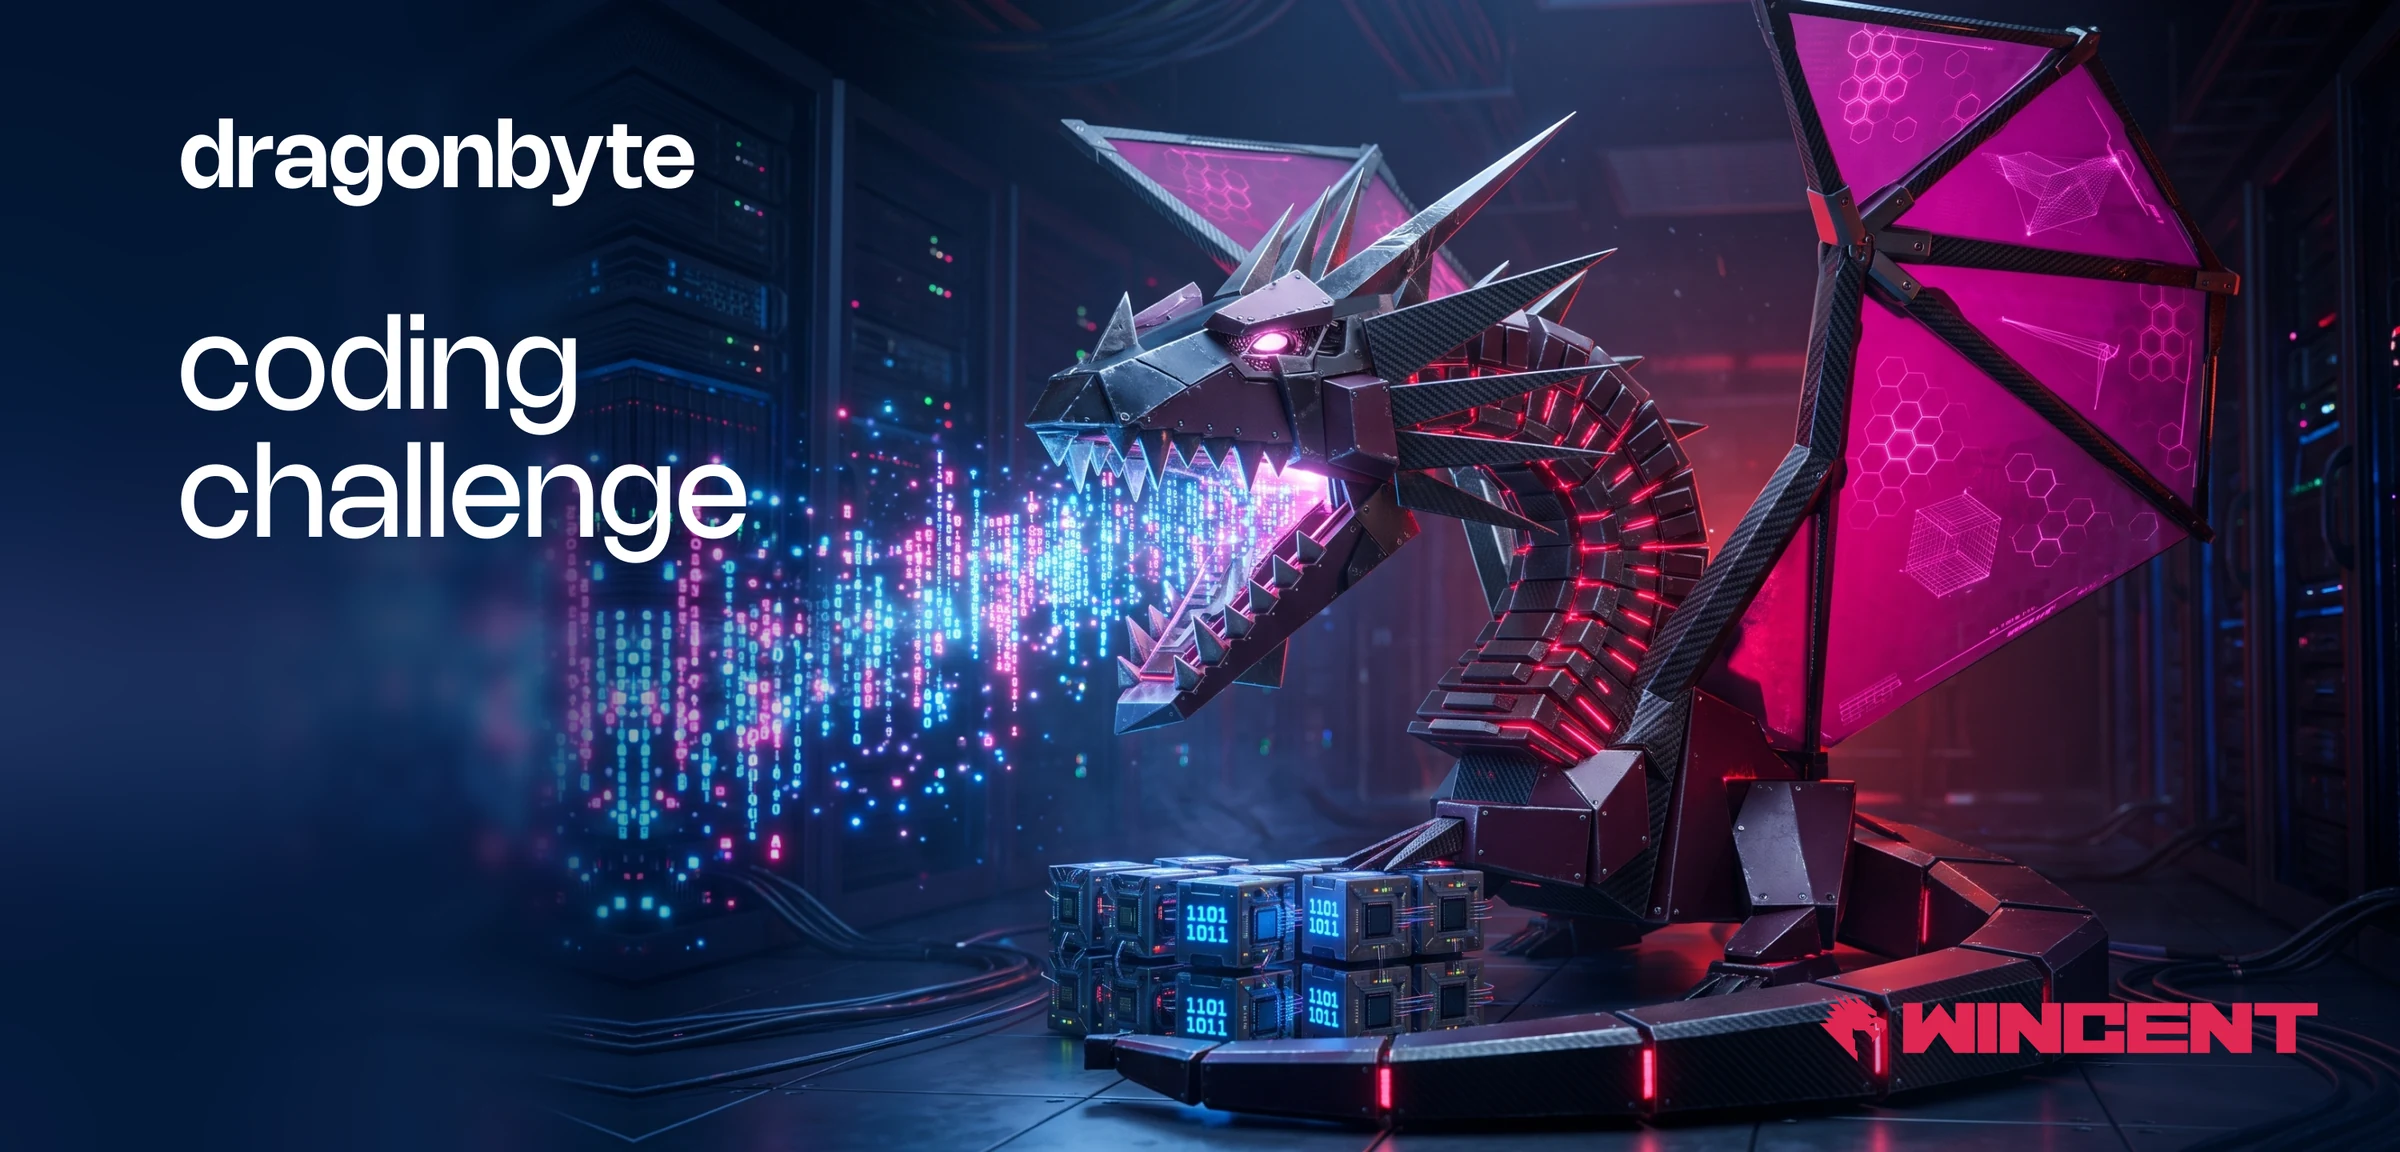
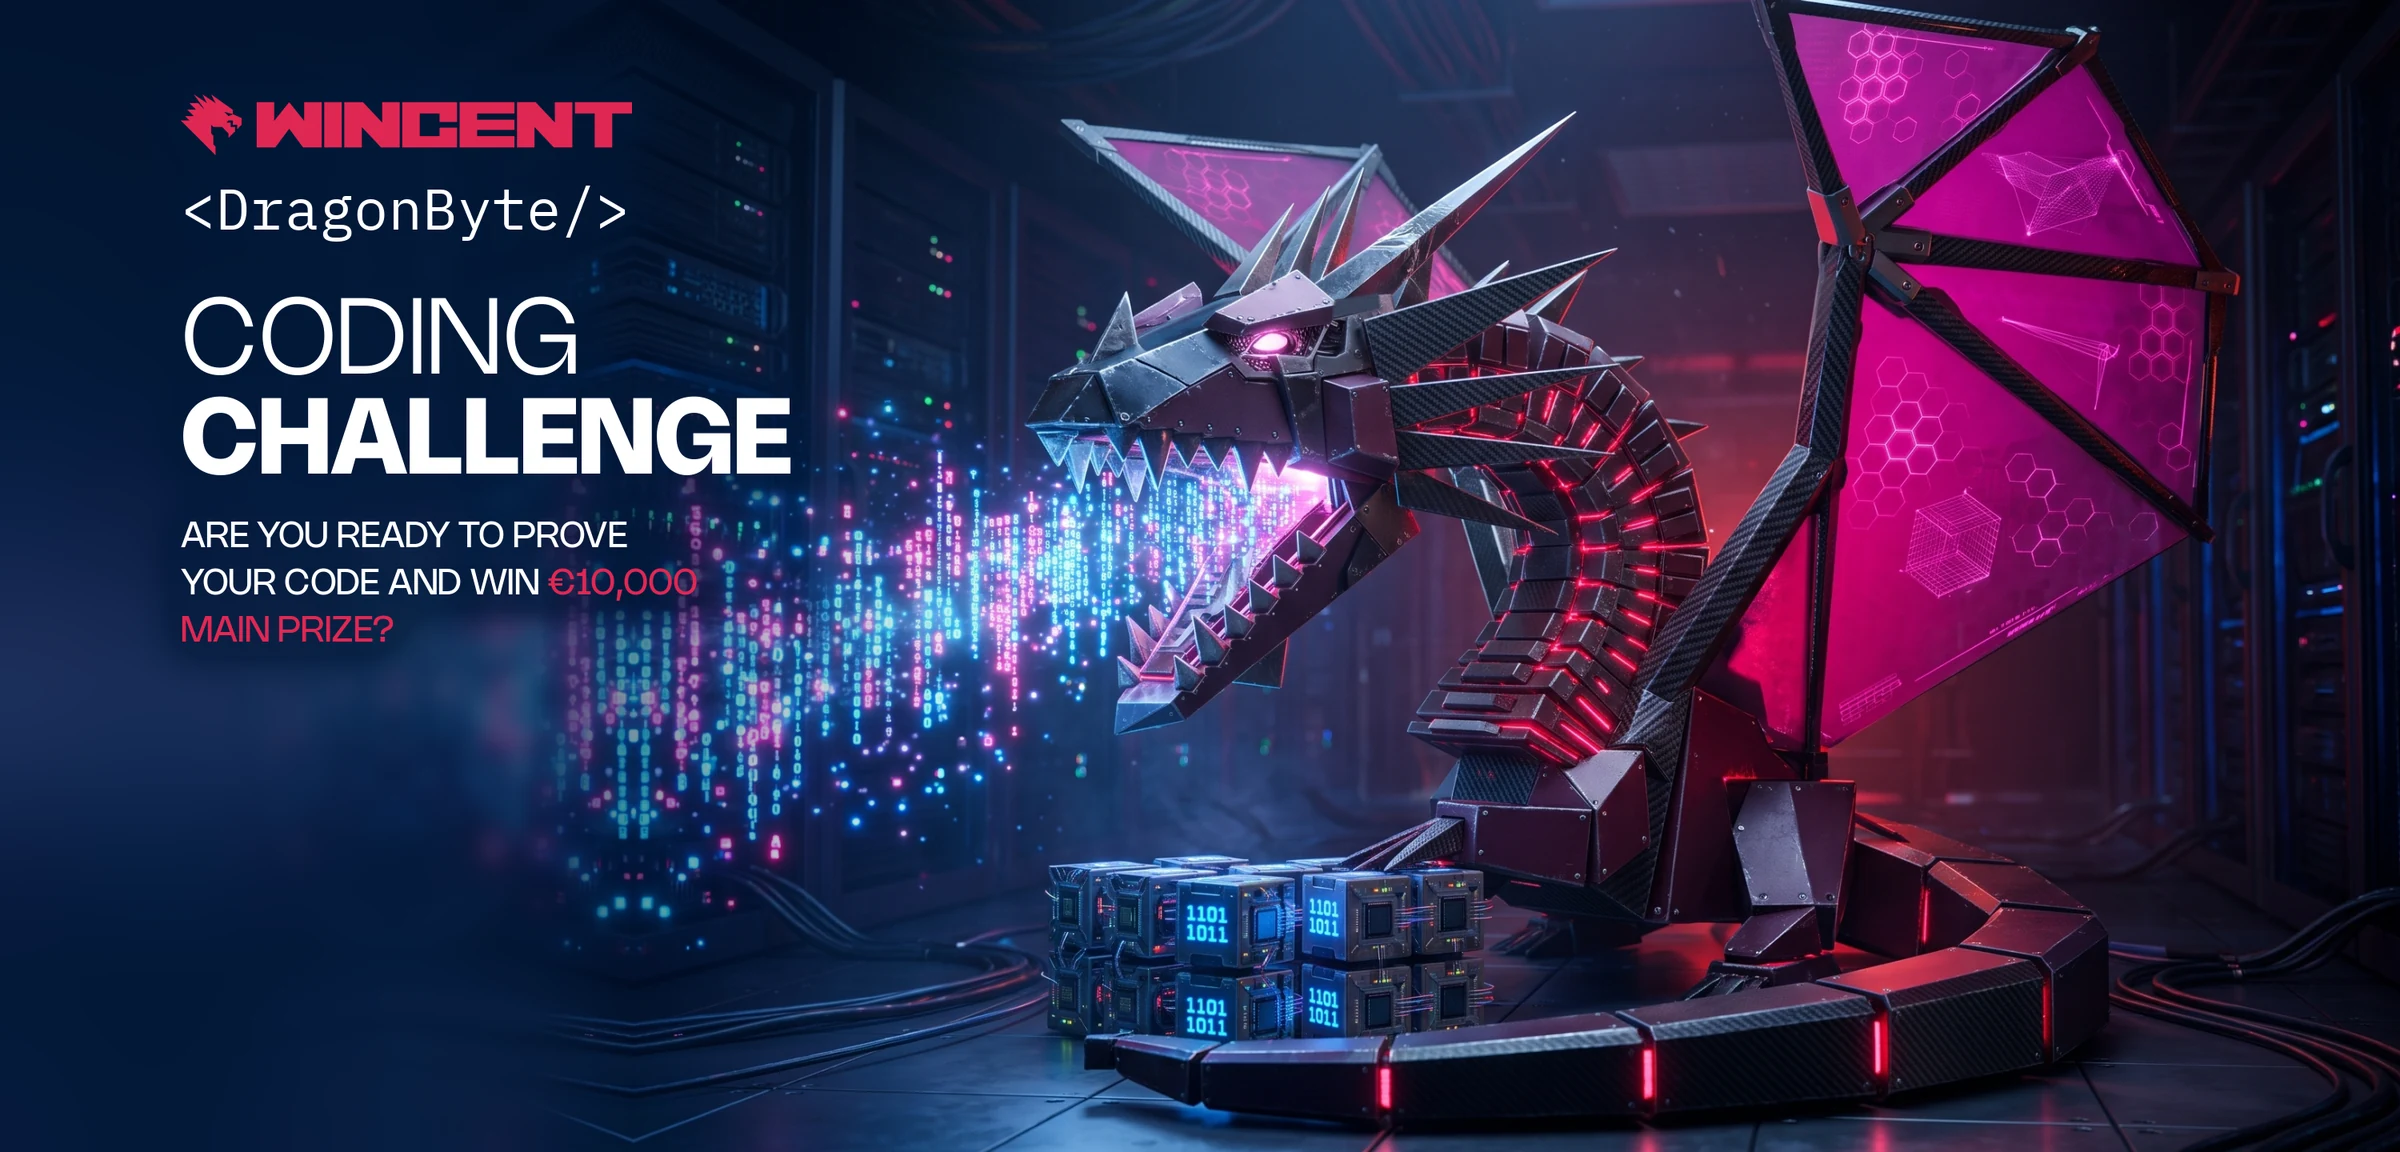
wincentdragonbyte: úloha 1 – bannery s logom Wincent, <DragonByte/> a celým textom headera v systéme trička (EN + SK)
Claude-Session: https://claude.ai/code/session_01H8JWfyXzGm1E99R4ciV8hV

diff --git a/wincentdragonbyte/index.html b/wincentdragonbyte/index.html
@@ -400,11 +400,11 @@ footer{border-top:1px solid var(--line);padding:28px 0 44px;font-size:14px;line-
 </div>
 <h3 class="mono sub">Banner proposals · two options</h3>
 <div class="opts">
-<figure class="opt opt-lead"><a class="zoom" href="assets/banner-db-dragon.webp" aria-label="Open the image full size"><img width="2400" height="1152" loading="lazy" src="assets/banner-db-dragon.webp" alt="Banner option 1: on the left dragonbyte coding challenge in white, the Wincent logo in Vivid Red bottom right; Byte, the dragon of dark carbon plates with red light in the seams and magenta wings, breathing a stream of code across a server room"></a><figcaption><span class="mono">Option 01</span><strong>Dragon</strong>Byte breathing a stream of code across the server room, in the navy, magenta and red of the Talent stream.</figcaption></figure>
-<figure class="opt opt-lead"><a class="zoom" href="assets/banner-db-contestant.webp" aria-label="Open the image full size"><img width="2400" height="1152" loading="lazy" src="assets/banner-db-contestant.webp" alt="Banner option 2: on the left dragonbyte coding challenge in white, the Wincent logo in Vivid Red bottom right; a contestant at a laptop, a floating code window with the dragon_logic.py code and a terminal with its output, a glass cube with red cables"></a><figcaption><span class="mono">Option 02</span><strong>Contestant</strong>A contestant at a laptop with a code window and a terminal; both show the sandbox code exactly.</figcaption></figure>
+<figure class="opt opt-lead"><a class="zoom" href="assets/banner-db-dragon.webp?v=2" aria-label="Open the image full size"><img width="2400" height="1152" loading="lazy" src="assets/banner-db-dragon.webp?v=2" alt="Banner option 1: on the left the Wincent logo in Vivid Red, &lt;DragonByte/&gt; below it, Coding Challenge and the line Are you ready to prove your code and win €10,000 main prize?; Byte, the dragon of dark carbon plates with red light in the seams and magenta wings, breathing a stream of code across a server room"></a><figcaption><span class="mono">Option 01</span><strong>Dragon</strong>Byte breathing a stream of code across the server room, in the navy, magenta and red of the Talent stream.</figcaption></figure>
+<figure class="opt opt-lead"><a class="zoom" href="assets/banner-db-contestant.webp?v=2" aria-label="Open the image full size"><img width="2400" height="1152" loading="lazy" src="assets/banner-db-contestant.webp?v=2" alt="Banner option 2: on the left the Wincent logo in Vivid Red, &lt;DragonByte/&gt; below it, Coding Challenge and the line Are you ready to prove your code and win €10,000 main prize?; a contestant at a laptop, a floating code window with the dragon_logic.py code and a terminal with its output, a glass cube with red cables"></a><figcaption><span class="mono">Option 02</span><strong>Contestant</strong>A contestant at a laptop with a code window and a terminal; both show the sandbox code exactly.</figcaption></figure>
 <figure class="opt opt-lead"><video class="motion" src="assets/dragon-motion.mp4" poster="assets/dragon-motion.webp" width="1280" height="720" muted loop playsinline controls preload="none" aria-label="Ten-second video: in a server room the gold dragon breathes a stream of code while a code window runs the recursion; the terminal ends with the error The dragon bit its own tail and the line Want O(1)? wincent.com/careers"><a href="assets/dragon-motion.mp4">Download the video</a></video><figcaption><span class="mono">Motion · 10 s</span><strong>The dragon in motion</strong>Ten seconds with the gold dragon: the code window opens, the dragon breathes the program out as a stream of digits, its tail swings round and the terminal ends on the error and the careers line.</figcaption></figure>
 </div>
-<p class="note">Two banners for one campaign, typeset as the DragonByte example in the brand manual (7.3, page 32): dragonbyte in Nohemi SemiBold, coding challenge below it in Nohemi Regular at 1.38 times the size with a line height equal to the size, all in white, and the Talent logo in Vivid Red in the bottom right corner, with margins taken from the same example and its half-height safe zone kept clear. Each is 3000 × 1440 px, the format of the current DragonByte header. The scenes are AI-generated images; the type, the logo and the code are set over them, and the code in the window and the terminal is the sandbox code, set in IBM Plex Mono in the sandbox’s colours. The motion study is an AI-generated video; it starts muted and the sound can be turned on in its controls.</p>
+<p class="note">Two banners for one campaign, carrying the full content of the current DragonByte header in the type system of the T-shirt: the Wincent logo in Vivid Red as the Talent stream requires, &lt;DragonByte/&gt; below it in IBM Plex Mono as embroidered on the chest, half a logo height apart as the manual’s safe zone requires, then CODING in Nohemi Light and CHALLENGE in Nohemi Bold like the headline on the back, and the prize line in Nohemi Regular with €10,000 main prize in Vivid Red. Each is 3000 × 1440 px, the format of the current DragonByte header. The scenes are AI-generated images; the type, the logo and the code are set over them, and the code in the window and the terminal is the sandbox code, set in IBM Plex Mono in the sandbox’s colours. The motion study is an AI-generated video; it starts muted and the sound can be turned on in its controls.</p>
 </div></section>
 
 <section id="task-2" class="dark"><div class="wrap sec">

diff --git a/wincentdragonbyte/sk/index.html b/wincentdragonbyte/sk/index.html
@@ -400,11 +400,11 @@ footer{border-top:1px solid var(--line);padding:28px 0 44px;font-size:14px;line-
 </div>
 <h3 class="mono sub">Návrhy bannera · dva varianty</h3>
 <div class="opts">
-<figure class="opt opt-lead"><a class="zoom" href="../assets/banner-db-dragon.webp" aria-label="Otvoriť obrázok na celú veľkosť"><img width="2400" height="1152" loading="lazy" src="../assets/banner-db-dragon.webp" alt="Variant bannera 1: vľavo dragonbyte coding challenge bielym písmom, vpravo dole logo Wincent vo Vivid Red; Byte, drak z tmavých karbónových plátov s červeným svetlom v škárach a magentovými krídlami, chrlí prúd kódu cez serverovňu"></a><figcaption><span class="mono">Variant 01</span><strong>Drak</strong>Byte chrlí prúd kódu cez serverovňu, v navy, magente a červenej streamu Talent.</figcaption></figure>
-<figure class="opt opt-lead"><a class="zoom" href="../assets/banner-db-contestant.webp" aria-label="Otvoriť obrázok na celú veľkosť"><img width="2400" height="1152" loading="lazy" src="../assets/banner-db-contestant.webp" alt="Variant bannera 2: vľavo dragonbyte coding challenge bielym písmom, vpravo dole logo Wincent vo Vivid Red; súťažiaci pri notebooku, vznášajúce sa okno s kódom dragon_logic.py a terminál s jeho výstupom, sklenená kocka s červenými káblami"></a><figcaption><span class="mono">Variant 02</span><strong>Súťažiaci</strong>Súťažiaci pri notebooku s oknom kódu a terminálom; oba ukazujú presne kód zo sandboxu.</figcaption></figure>
+<figure class="opt opt-lead"><a class="zoom" href="../assets/banner-db-dragon.webp?v=2" aria-label="Otvoriť obrázok na celú veľkosť"><img width="2400" height="1152" loading="lazy" src="../assets/banner-db-dragon.webp?v=2" alt="Variant bannera 1: vľavo logo Wincent vo Vivid Red, pod ním &lt;DragonByte/&gt;, Coding Challenge a riadok Are you ready to prove your code and win €10,000 main prize?; Byte, drak z tmavých karbónových plátov s červeným svetlom v škárach a magentovými krídlami, chrlí prúd kódu cez serverovňu"></a><figcaption><span class="mono">Variant 01</span><strong>Drak</strong>Byte chrlí prúd kódu cez serverovňu, v navy, magente a červenej streamu Talent.</figcaption></figure>
+<figure class="opt opt-lead"><a class="zoom" href="../assets/banner-db-contestant.webp?v=2" aria-label="Otvoriť obrázok na celú veľkosť"><img width="2400" height="1152" loading="lazy" src="../assets/banner-db-contestant.webp?v=2" alt="Variant bannera 2: vľavo logo Wincent vo Vivid Red, pod ním &lt;DragonByte/&gt;, Coding Challenge a riadok Are you ready to prove your code and win €10,000 main prize?; súťažiaci pri notebooku, vznášajúce sa okno s kódom dragon_logic.py a terminál s jeho výstupom, sklenená kocka s červenými káblami"></a><figcaption><span class="mono">Variant 02</span><strong>Súťažiaci</strong>Súťažiaci pri notebooku s oknom kódu a terminálom; oba ukazujú presne kód zo sandboxu.</figcaption></figure>
 <figure class="opt opt-lead"><video class="motion" src="../assets/dragon-motion.mp4" poster="../assets/dragon-motion.webp" width="1280" height="720" muted loop playsinline controls preload="none" aria-label="Desaťsekundové video: zlatý drak v serverovni chrlí prúd kódu, kým okno s kódom spúšťa rekurziu; terminál skončí chybou The dragon bit its own tail a riadkom Want O(1)? wincent.com/careers"><a href="../assets/dragon-motion.mp4">Stiahnuť video</a></video><figcaption><span class="mono">Pohyb · 10 s</span><strong>Drak v pohybe</strong>Desať sekúnd so zlatým drakom: otvorí sa okno s kódom, drak vydýchne program ako prúd číslic, chvost sa otočí a terminál skončí chybou a odkazom na kariéru.</figcaption></figure>
 </div>
-<p class="note">Dva bannery jednej kampane, vysádzané podľa vzoru DragonByte v brand manuáli (7.3, strana 32): dragonbyte v Nohemi SemiBold, pod ním coding challenge v Nohemi Regular, 1,38-krát väčšie a s riadkovaním rovným veľkosti písma, všetko biele, a logo Talent vo Vivid Red v pravom dolnom rohu, s okrajmi prevzatými z toho istého vzoru a s voľnou ochrannou zónou polovice výšky loga. Každý má 3000 × 1440 px, formát súčasného headera DragonByte. Scény sú obrázky generované AI; písmo, logo a kód sú vysádzané cez ne a kód v okne aj v termináli je kód zo sandboxu, vysádzaný v IBM Plex Mono vo farbách sandboxu. Pohybová štúdia je video generované AI; spúšťa sa bez zvuku a zvuk sa dá zapnúť v jeho ovládaní.</p>
+<p class="note">Dva bannery jednej kampane s celým obsahom súčasného headera DragonByte v typografickom systéme trička: logo Wincent vo Vivid Red, ako vyžaduje stream Talent, pod ním &lt;DragonByte/&gt; v IBM Plex Mono ako výšivka na hrudi, vo vzdialenosti polovice výšky loga podľa ochrannej zóny z manuálu, potom CODING v Nohemi Light a CHALLENGE v Nohemi Bold ako nadpis na chrbte a riadok s výhrou v Nohemi Regular, v ktorom je €10,000 main prize vo Vivid Red. Každý má 3000 × 1440 px, formát súčasného headera DragonByte. Scény sú obrázky generované AI; písmo, logo a kód sú vysádzané cez ne a kód v okne aj v termináli je kód zo sandboxu, vysádzaný v IBM Plex Mono vo farbách sandboxu. Pohybová štúdia je video generované AI; spúšťa sa bez zvuku a zvuk sa dá zapnúť v jeho ovládaní.</p>
 </div></section>
 
 <section id="task-2" class="dark"><div class="wrap sec">
